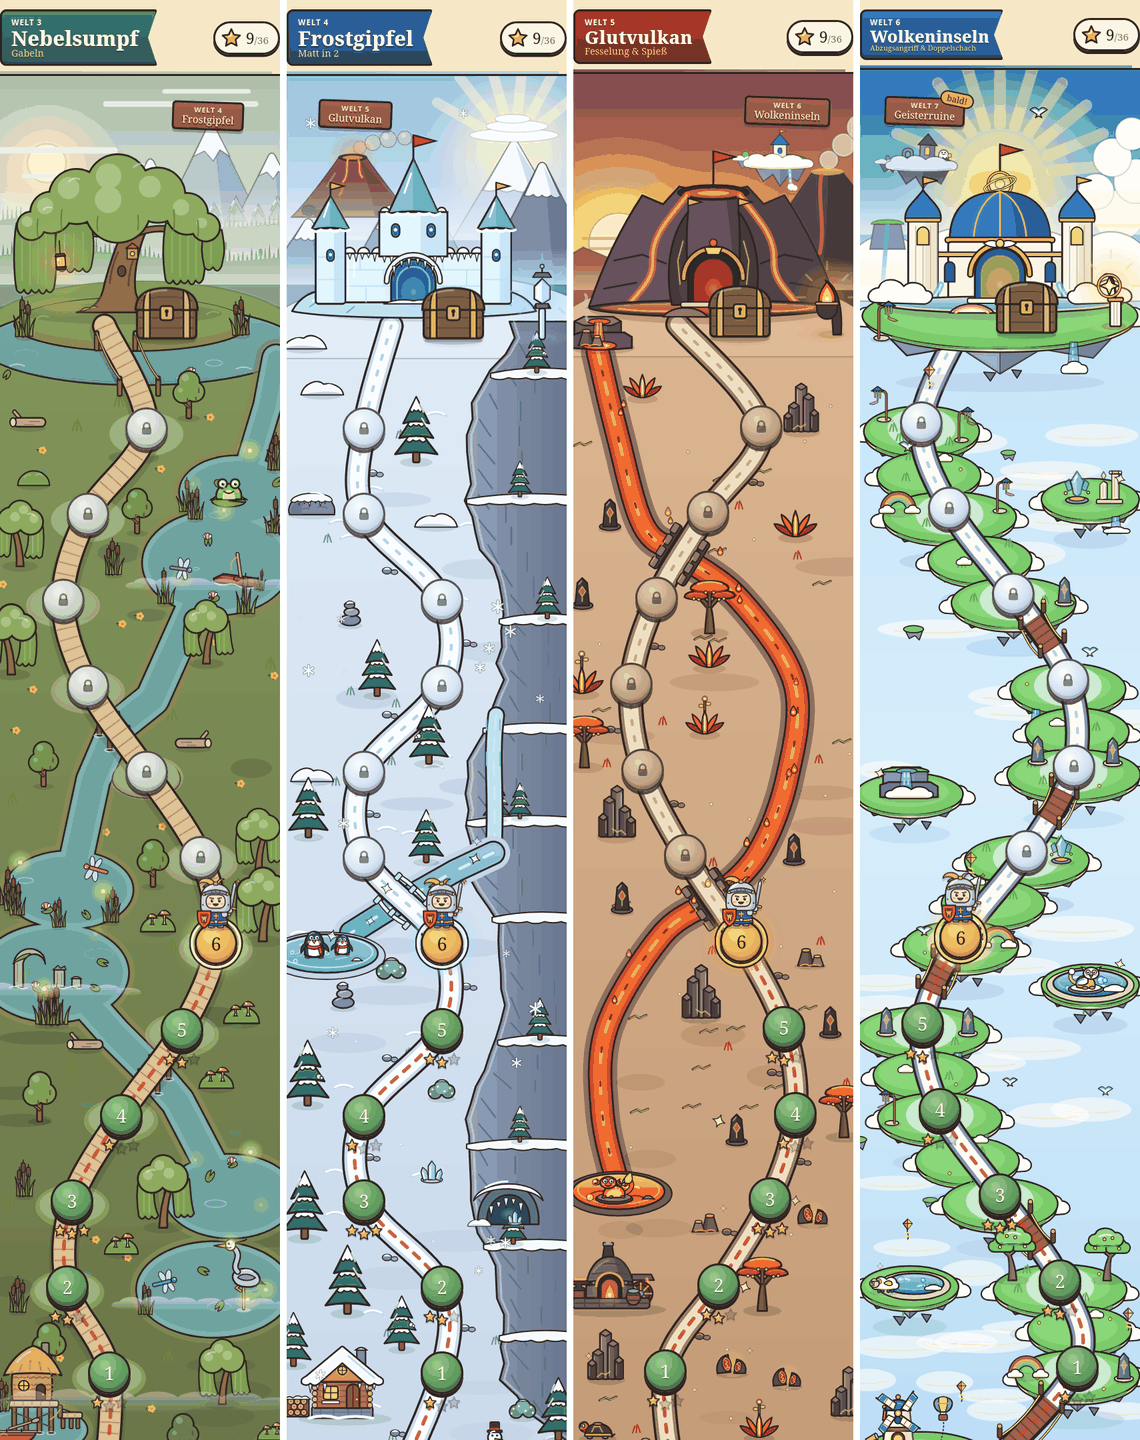
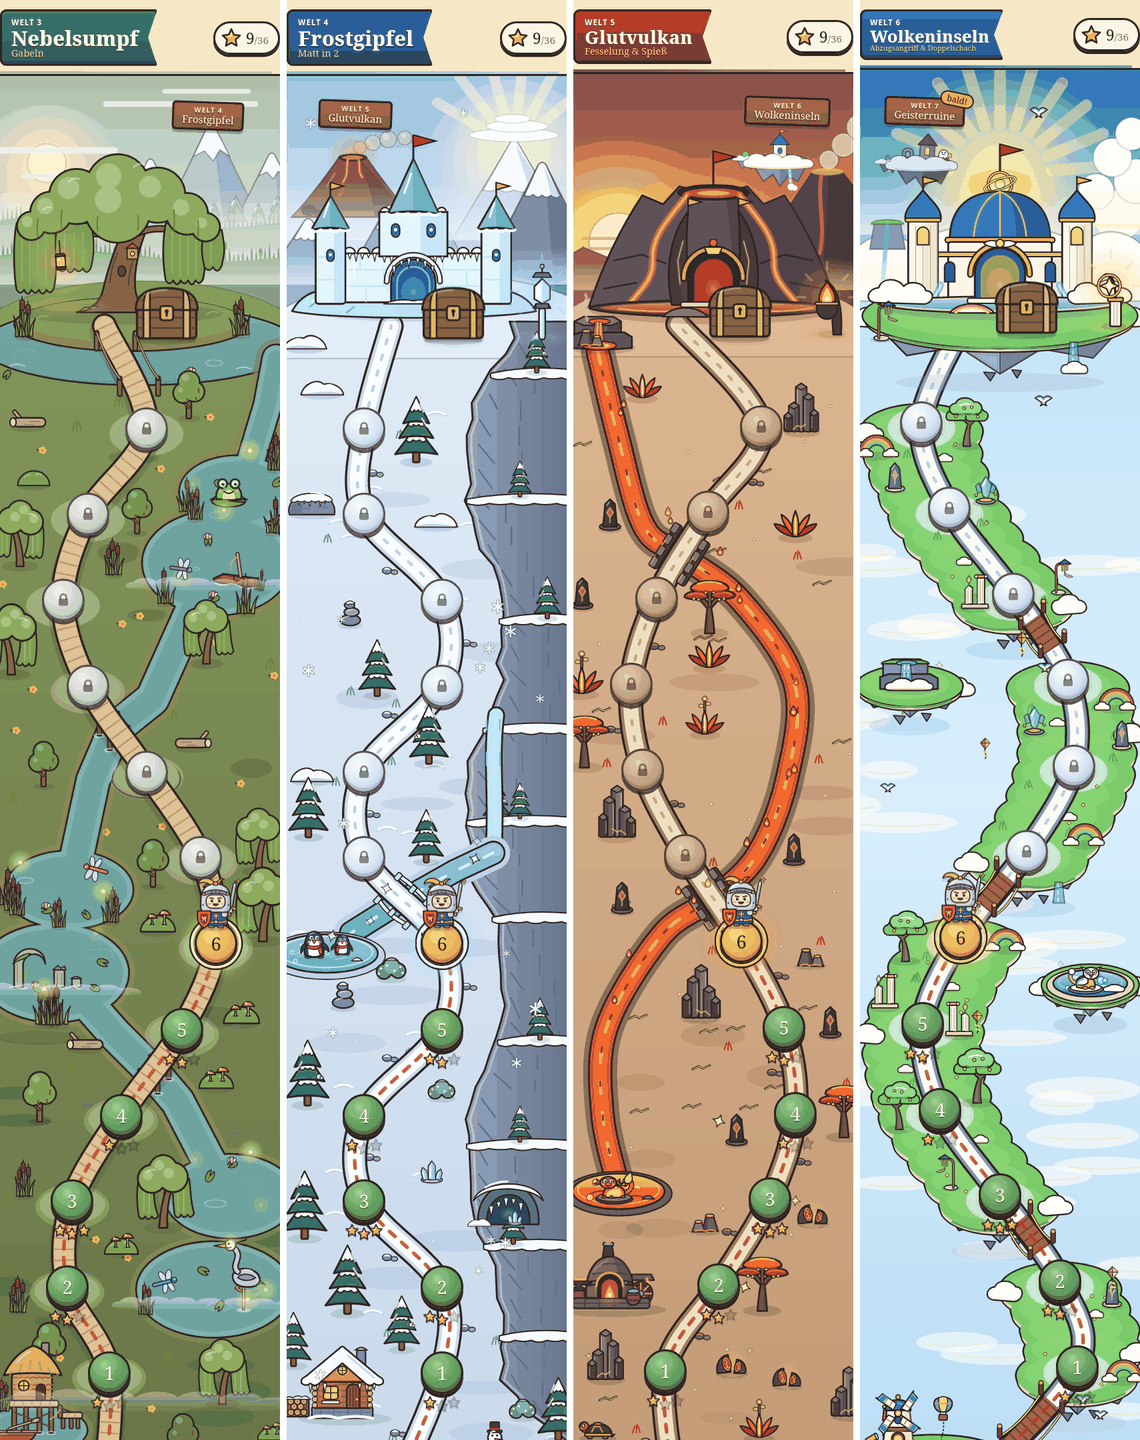
feat(art): Wolkeninseln – four big islands instead of a chain of small pads (#45)
- stones share large islands drawn as one landmass (shared outline, single
  underside, cloud collars only at the ends); rope bridges only between islands
- two satellite isles (griffin lagoon, waterfall) instead of four, no pebble isles
- start: one start isle with windmill and sheep

Changed region(s): [[0.7368, 0.25, 1.0, 1.0], [0.8289, 0.25, 1.0, 0.4375], [0.6447, 0.125, 0.6754, 0.1562]]

diff --git a/src/components/MapArtCloudIsles.tsx b/src/components/MapArtCloudIsles.tsx
@@ -1268,12 +1268,61 @@ function SkyBridge({ pts, seg, t0, t1 }: { pts: Pt[]; seg: number; t0: number; t
   )
 }
 
-/** Tiny drifting rock islet (no turf) for the open sky between the islands. */
-function Pebble({ x, y, s = 1 }: { x: number; y: number; s?: number }) {
+/**
+ * One big floating island made of overlapping turf lobes (one shared ink outline), with a single
+ * rock underside below its lowest lobe and cloud collars only at its two ends.
+ */
+function IslandMass({ lobes, waterfall = 0 }: { lobes: Isle[]; waterfall?: -1 | 0 | 1 }) {
+  const low = lobes.reduce((a, b) => (b.y > a.y ? b : a))
+  const left = lobes.reduce((a, b) => (b.x - b.rx < a.x - a.rx ? b : a))
+  const right = lobes.reduce((a, b) => (b.x + b.rx > a.x + a.rx ? b : a))
+  const w = low.rx * 0.94
+  const d = low.depth
   return (
-    <g transform={`translate(${x.toFixed(1)} ${y.toFixed(1)}) scale(${s})`}>
-      <path d="M-12 0 L-6 12 L2 8 L8 14 L13 0 Z" fill={CI.isleRock} stroke={INK} strokeWidth={1.6} strokeLinejoin="round" />
-      <ellipse cx="0" cy="-1" rx="14" ry="5" fill={CI.grass} stroke={INK} strokeWidth={1.6} />
+    <g>
+      {/* soft shadow on the cloud sea + rock underside of the lowest lobe */}
+      <ellipse cx={low.x} cy={low.y + d + 12} rx={low.rx * 0.8} ry={13} fill={CI.cloudSeaShade} />
+      <g transform={`translate(${low.x.toFixed(1)} ${low.y.toFixed(1)})`}>
+        <path d={`M-22 ${d - 2} L-13 ${d + 10} L-6 ${d - 1} Z M16 ${d - 5} L23 ${d + 6} L29 ${d - 4} Z`} fill={CI.isleRockDeep} stroke={INK} strokeWidth={1.6} strokeLinejoin="round" />
+        <path d={`M${-w} 2 L${-w * 0.72} ${d * 0.68} L${-w * 0.32} ${d * 0.52} L0 ${d} L${w * 0.32} ${d * 0.56} L${w * 0.72} ${d * 0.72} L${w} 2 Z`} fill={CI.isleRock} stroke={INK} strokeWidth={2.2} strokeLinejoin="round" />
+        <path d={`M0 6 L0 ${d} L${w * 0.32} ${d * 0.56} L${w * 0.72} ${d * 0.72} L${w} 2 Z`} fill={CI.isleRockDeep} opacity={0.68} />
+        <path d={`M${-w * 0.32} ${d * 0.52} L${-w * 0.36} 10 M0 ${d} V12 M${w * 0.32} ${d * 0.56} L${w * 0.36} 10`} stroke={INK} strokeWidth={1.5} strokeLinecap="round" opacity={0.65} />
+        <path d={`M${-w * 0.16} 12 C${-w * 0.18} 22 ${-w * 0.12} 30 ${-w * 0.15} 38`} stroke={CI.grassDeep} strokeWidth={2.2} fill="none" strokeLinecap="round" />
+      </g>
+      {/* one outline around all lobes: ink, limestone rim, turf */}
+      {lobes.map((e, i) => <ellipse key={`ro${i}`} cx={e.x} cy={e.y + 4} rx={e.rx * 0.98 + 2} ry={e.ry * 0.98 + 2} fill={INK} />)}
+      {lobes.map((e, i) => <ellipse key={`to${i}`} cx={e.x} cy={e.y - 2} rx={e.rx + 2.3} ry={e.ry + 2.3} fill={INK} />)}
+      {lobes.map((e, i) => <ellipse key={`r${i}`} cx={e.x} cy={e.y + 4} rx={e.rx * 0.98} ry={e.ry * 0.98} fill={CI.marbleShade} />)}
+      {lobes.map((e, i) => <ellipse key={`t${i}`} cx={e.x} cy={e.y - 2} rx={e.rx} ry={e.ry} fill={CI.grass} />)}
+      {lobes.map((e, i) => <ellipse key={`h${i}`} cx={e.x - 6} cy={e.y - 5} rx={e.rx * 0.8} ry={e.ry * 0.7} fill={CI.grassLight} opacity={0.35} />)}
+      <path
+        d={`M${low.x - low.rx * 0.78} ${low.y + low.ry * 0.62} Q${low.x - low.rx * 0.4} ${low.y + low.ry * 1.06} ${low.x} ${low.y + low.ry * 0.92} Q${low.x + low.rx * 0.4} ${low.y + low.ry * 1.06} ${low.x + low.rx * 0.78} ${low.y + low.ry * 0.62}`}
+        fill="none"
+        stroke={CI.grassDeep}
+        strokeWidth={3.2}
+        strokeLinecap="round"
+      />
+      {/* cloud collars only at the two ends of the island */}
+      <path
+        d={`M${left.x - left.rx - 6} ${left.y + 12} c-14 0 -14 -16 0 -18 c4 -10 22 -10 28 0 c12 0 12 18 -2 20 Z`}
+        fill={CI.cloud}
+        stroke={INK}
+        strokeWidth={1.9}
+        strokeLinejoin="round"
+      />
+      <path
+        d={`M${right.x + right.rx + 6} ${right.y + 12} c14 0 14 -16 0 -18 c-4 -10 -22 -10 -28 0 c-12 0 -12 18 2 20 Z`}
+        fill={CI.cloud}
+        stroke={INK}
+        strokeWidth={1.9}
+        strokeLinejoin="round"
+      />
+      {waterfall !== 0 && (
+        <g transform={`translate(${(low.x + waterfall * low.rx * 0.54).toFixed(1)} ${(low.y + low.ry * 0.76).toFixed(1)})`}>
+          <path className="ci-shimmer" d={`M-6 0 C-7 12 -8 24 -9 ${d * 0.56} L7 ${d * 0.56} C6 24 5 12 4 0 Z`} fill={CI.water} stroke={INK} strokeWidth={1.5} />
+          <path className="ci-shimmer" d={`M-2 2 V${d * 0.52}`} stroke={CI.waterFoam} strokeWidth={2} strokeLinecap="round" strokeDasharray="4 6" />
+        </g>
+      )}
     </g>
   )
 }
@@ -1302,27 +1351,34 @@ export function MapArtCloudIsles({ height, pts, walkedTo, stones }: MapArtProps)
   const skyEnd = chest.y - 40
   const S = (i: number) => pts[Math.max(1, Math.min(stones, i))]
 
-  // Island chain: stones that share an island are joined by a land bridge; between islands the trail
-  // crosses open sky on a rope bridge. The joins vary (2, 3, 1 stones per island) so the chain never repeats.
-  const joined = (i: number) => [1, 3, 4, 6, 8, 10, 11].includes(i) // stone i shares its island with stone i + 1
-  const pathIsles: Isle[] = []
+  // Four big islands instead of a chain of small pads: stones on one island are joined by turf,
+  // between islands the trail crosses open sky on a rope bridge.
+  const breaks = [2, 6, 9] // the trail leaves an island after these stones
+  const joined = (i: number) => !breaks.includes(i)
+  const groups: number[][] = [[]]
   for (let i = 1; i <= stones; i++) {
-    const p = pts[i]
-    pathIsles.push({ x: p.x, y: p.y + 14, rx: 78 + ((i * 7) % 3) * 6, ry: 34, depth: 46, wf: i === 5 ? 1 : i === 9 ? -1 : 0 })
-    if (i < stones && joined(i)) {
-      const m = pointOn(pts, i, 0.5)
-      pathIsles.push({ x: m.x, y: m.y + 14, rx: 70, ry: 32, depth: 40 })
-    }
+    groups[groups.length - 1].push(i)
+    if (i < stones && !joined(i)) groups.push([])
   }
+  const islands: Isle[][] = groups.map((g) =>
+    g.flatMap((i, k) => {
+      const p = pts[i]
+      const lobe: Isle = { x: p.x, y: p.y + 14, rx: 82, ry: 36, depth: 50 }
+      if (k === g.length - 1) return [lobe]
+      return [lobe, ...[0.25, 0.5, 0.75].map((t) => {
+        const m = pointOn(pts, i, t)
+        return { x: m.x, y: m.y + 14, rx: 80, ry: 36, depth: 50 }
+      })]
+    }),
+  )
+  const pathIsles = islands.flat()
   const bridgeSegs = Array.from({ length: stones - 1 }, (_, k) => k + 1).filter((i) => !joined(i))
 
-  // Satellite isles float in the open bays of the S-curve – each one carries its own little scene.
+  // Only two satellite isles, in the widest bays.
   const bayX = (i: number) => (S(i).x > MAP_W / 2 ? 78 : MAP_W - 78)
   const sats = [
-    { kind: 'lagoon', at: 2, dy: 10 },
     { kind: 'griffin', at: 5, dy: -50 },
-    { kind: 'waterfall', at: 8, dy: 40 },
-    { kind: 'shrine', at: 11, dy: -10 },
+    { kind: 'waterfall', at: 9, dy: 10 },
   ]
     .filter((s) => s.at <= stones)
     .map((s) => ({ ...s, x: bayX(s.at), y: S(s.at).y + s.dy }))
@@ -1345,16 +1401,11 @@ export function MapArtCloudIsles({ height, pts, walkedTo, stones }: MapArtProps)
   })
   deco.sort((a, b) => a.y - b.y)
 
-  // Cloud-sea waves in the open sky; little drifting pebble isles between the islands.
+  // Cloud-sea waves in the open sky.
   const waves: ReactNode[] = []
-  const pebbles: ReactNode[] = []
-  for (let i = 0; i < stones * 4; i++) {
+  for (let i = 0; i < stones * 3; i++) {
     const p = { x: rand() * MAP_W, y: skyEnd + 140 + rand() * (height - skyEnd - 160) }
     const rx = 36 + rand() * 44
-    if (i % 4 === 3) {
-      if (!onIsle(p) && !nearSat(p) && pts.every((q) => Math.hypot(q.x - p.x, q.y - p.y) > 70)) pebbles.push(<Pebble key={`pb${i}`} x={p.x} y={p.y} s={0.7 + rand() * 0.5} />)
-      continue
-    }
     waves.push(
       <g key={`cw${i}`} transform={`translate(${p.x.toFixed(1)} ${p.y.toFixed(1)})`}>
         <ellipse rx={rx} ry={10 + rand() * 8} fill={CI.cloudSeaWave} />
@@ -1477,16 +1528,14 @@ export function MapArtCloudIsles({ height, pts, walkedTo, stones }: MapArtProps)
       <path className="ci-shimmer" d={`M48 ${skyEnd - 82} C46 ${skyEnd - 60} 44 ${skyEnd - 34} 42 ${skyEnd - 10}`} stroke={CI.water} strokeWidth={6} fill="none" strokeLinecap="round" />
       <rect y={skyEnd - 50} width={MAP_W} height={50} fill="url(#ci-haze)" />
 
-      {/* 4 cloud sea, pebbles, the island chain with satellites */}
+      {/* 4 cloud sea, four big islands, two satellites */}
       {waves}
-      {pebbles}
-      <FloatingIslePad x={92} y={height - 70} rx={110} ry={50} depth={46} lobe={0} />
-      <FloatingIslePad x={334} y={height - 46} rx={70} ry={30} depth={34} lobe={0} />
-      {[...pathIsles].sort((a, b) => a.y - b.y).map((e, i) => (
-        <FloatingIslePad key={`pi${i}`} x={e.x} y={e.y} rx={e.rx} ry={e.ry} depth={e.depth} lobe={0} waterfall={e.wf ?? 0} />
+      <FloatingIslePad x={110} y={height - 66} rx={124} ry={50} depth={46} lobe={0} />
+      {[...islands].sort((a, b) => Math.min(...a.map((e) => e.y)) - Math.min(...b.map((e) => e.y))).map((lobes, i) => (
+        <IslandMass key={`im${i}`} lobes={lobes} waterfall={i === 1 ? 1 : 0} />
       ))}
       {sats.map((s) => (
-        <FloatingIslePad key={`sat${s.at}`} x={s.x} y={s.y} rx={s.kind === 'waterfall' ? 72 : 66} ry={28} depth={40} lobe={0} waterfall={s.kind === 'shrine' ? (s.x < MAP_W / 2 ? -1 : 1) : 0} />
+        <FloatingIslePad key={`sat${s.at}`} x={s.x} y={s.y} rx={s.kind === 'waterfall' ? 72 : 66} ry={28} depth={40} lobe={0} />
       ))}
       {pts.slice(1, stones + 1).map((p, i) => (
         <ellipse key={`cl${i}`} cx={p.x} cy={p.y + 8} rx={46} ry={28} fill={CI.clearing} />
@@ -1495,26 +1544,13 @@ export function MapArtCloudIsles({ height, pts, walkedTo, stones }: MapArtProps)
 
       {/* 5 satellite scenes */}
       {sats.map((s) => {
-        if (s.kind === 'lagoon')
-          return (
-            <g key="sl">
-              <CloudLagoon x={s.x + 6} y={s.y - 6} rx={40} ry={14} seed={19} />
-              <CloudSheep x={s.x - 34} y={s.y + 4} s={0.85} />
-            </g>
-          )
         if (s.kind === 'griffin')
           return (
             <CloudLagoon key="sg" x={s.x} y={s.y - 4} rx={50} ry={18} seed={37}>
               <SkyGriffin x={-6} y={4} s={0.95} flip={s.x > MAP_W / 2} />
             </CloudLagoon>
           )
-        if (s.kind === 'waterfall') return <SkyWaterfall key="sw" x={s.x} y={s.y} s={1} flip={s.x > MAP_W / 2} />
-        return (
-          <g key="ss">
-            <LevitationCrystal x={s.x - 18} y={s.y} s={0.95} />
-            <MarbleColumns x={s.x + 26} y={s.y + 2} s={0.8} flip />
-          </g>
-        )
+        return <SkyWaterfall key="sw" x={s.x} y={s.y} s={1} flip={s.x > MAP_W / 2} />
       })}
 
       {/* 6 marble skyway trail: same widths as Burgdorf; rope bridges wherever it leaves an island */}
@@ -1541,7 +1577,7 @@ export function MapArtCloudIsles({ height, pts, walkedTo, stones }: MapArtProps)
 
       {/* 8 start: windmill on the LEFT start isle, cloud sheep grazing on a small isle to the right */}
       <SkyWindmill x={68} y={height - 92} s={0.95} />
-      <CloudSheep x={330} y={height - 50} s={1} />
+      <CloudSheep x={216} y={height - 30} s={0.9} />
       <Signpost x={pts[0].x - 74} y={pts[0].y - 6} />
 
       {/* 9 magic layer */}
